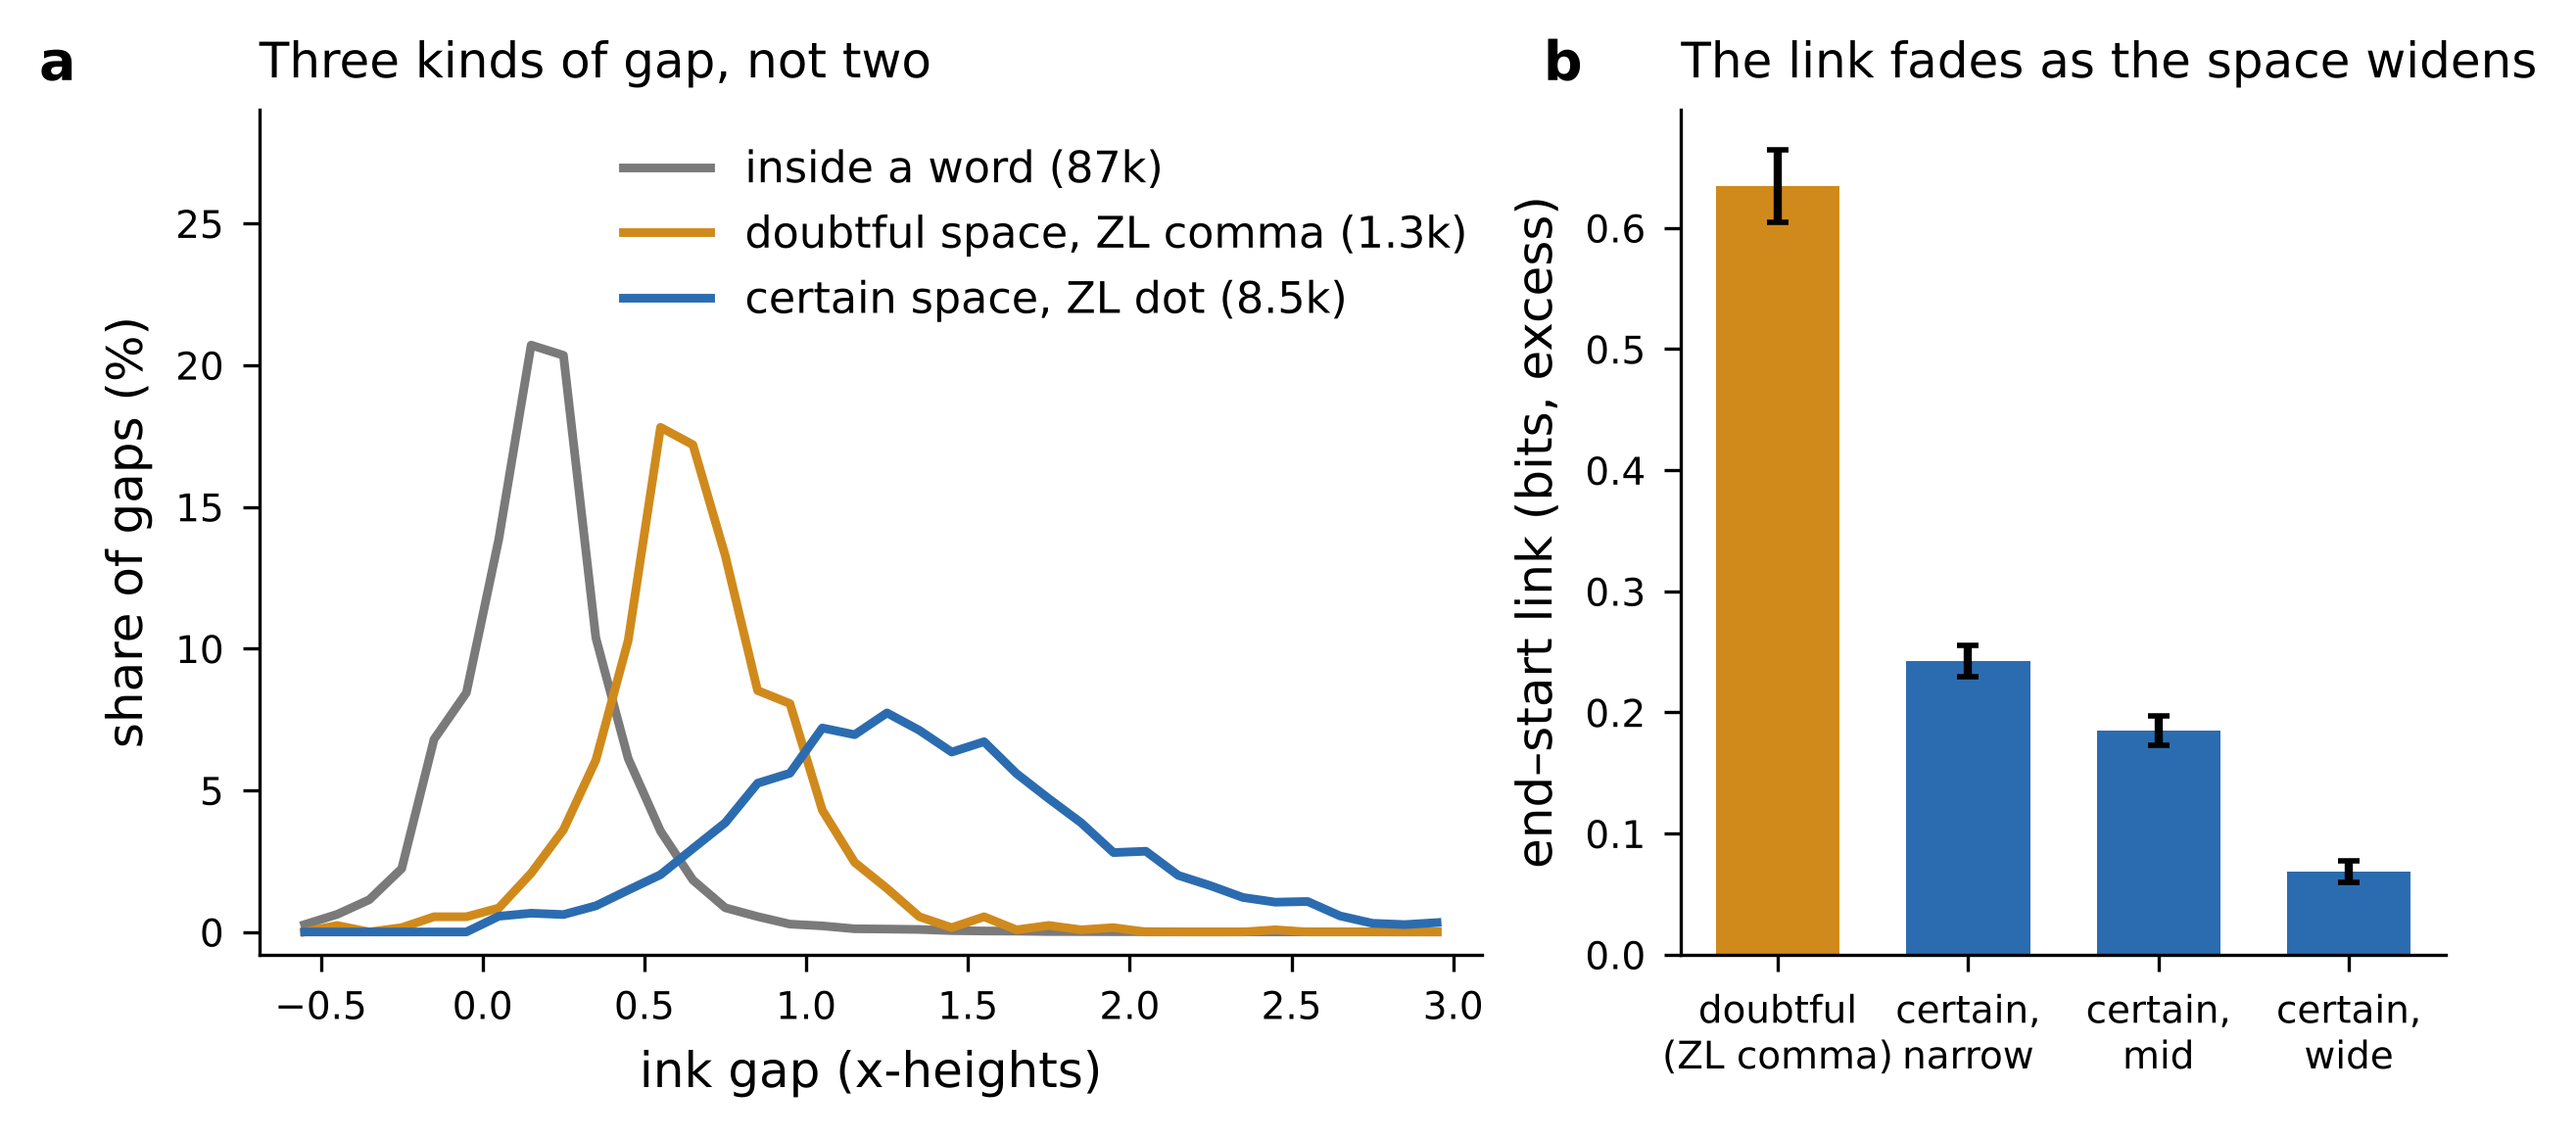
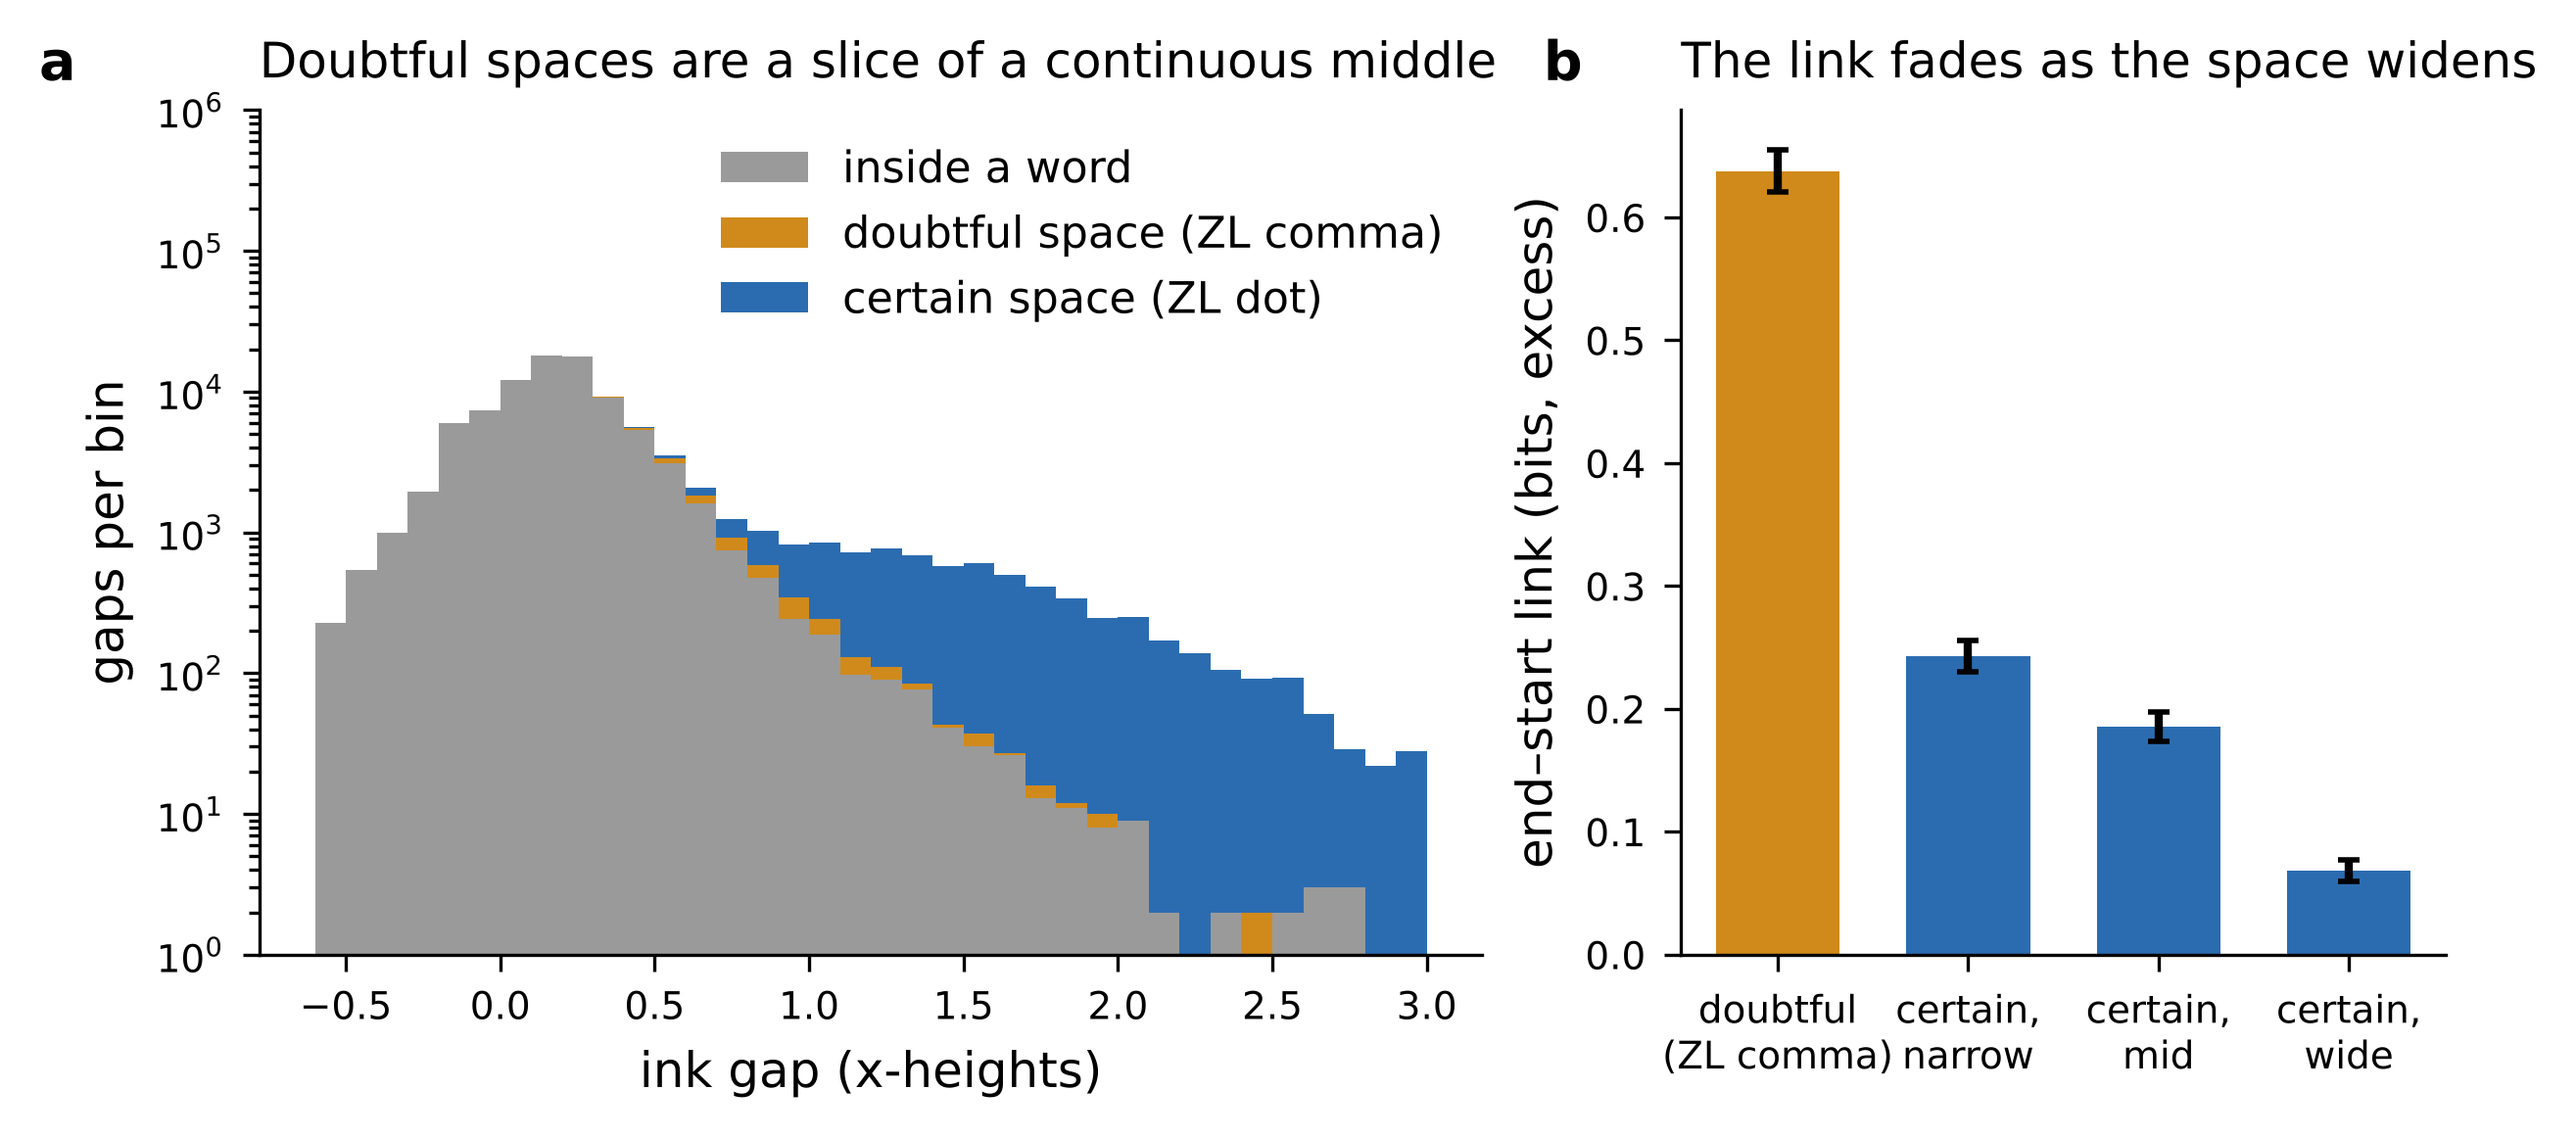
66: doubtful spaces aren't a third gap size

diff --git a/README.md b/README.md
@@ -113,7 +113,7 @@ dist, z, profile = benchmark.score(my_lines)   # score any text (list of lines o
 | 63 | a two-sign link | linking a word's start to the previous word's last two signs doesn't make the rhythm (1.61 vs B 1.96) and scores worse (5 of 11). The qo after -dy also depends on the family of the -dy word: the last piece of word-to-word structure no generator makes |
 | 64 | twin plants | the label next to a pharma plant that is redrawn from a herbal page (11 pairs from the literature, 41 labels) never occurs in the twin page, and isn't nearer to it than to a length-matched herbal page (percentile 0.50; similarity 0.44, p .07). A single mention, even one sign off, would have been found (p .002) |
 | 65 | the rhythm taken apart | the qo/ch-sh rhythm is a 20-cell table: next word's family by the previous word's family and ending (-y → qo-, -n/-l/-r → ch/sh-, o-). Drawing starts from it: rhythm 1.57 → 1.79 (B 1.93), link 0.10 → 0.15 bits (B 0.23), and the qo two words back mostly follows. Neighbouring lines of a page share their qo- and ending shares over 2-3 lines, and nothing I tried makes that without breaking something else |
-| 66 | spaces letter by letter | Ryan Allen's glyph map (ink of every letter): gaps fall in three populations, letters 0.17, ZL doubtful spaces 0.64, certain spaces 1.36 x-heights. The link between a word's end and the next word's start is 0.64 bits across doubtful spaces and falls from 0.24 to 0.07 across certain spaces as they widen (in A and in B). The qo- rhythm hardly changes with width: glyph coupling is about narrow spaces, the family habit is about words |
+| 66 | spaces letter by letter | Ryan Allen's glyph map (ink of every letter): letter gaps (median 0.17 x-heights) and spaces (1.36) overlap continuously; ZL doubtful spaces (0.64) are a slice of that middle, not a third size (corrected). The link between a word's end and the next word's start is 0.64 bits across doubtful spaces and falls from 0.24 to 0.07 across certain spaces as they widen (in A and in B). The qo- rhythm hardly changes with width: glyph coupling is about narrow spaces, the family habit is about words |
 
 Details and caveats in `RESEARCH_LOG.md`.
 

diff --git a/experiments/66_glyph_gaps/NOTES.md b/experiments/66_glyph_gaps/NOTES.md
@@ -27,6 +27,8 @@ at equal n (1,304 pairs, 20 subsamples).
 
 ![](results/glyph_gaps.png)
 
+Panel a: counts stacked by the transcription's label, log scale.
+
 | | n | median gap (x-heights) | 10th-90th percentile |
 |---|---|---|---|
 | letters inside a word | 87,363 | 0.17 | −0.13 to 0.45 |
@@ -45,10 +47,14 @@ of exp. 62 barely changes with width (after *ch/sh-…-y*: 1.78, 1.76, 1.66 time
 
 ## So what
 
-1. **There are three kinds of gap, not two.** The transcribers' doubtful spaces aren't a mix of
-   spaces and non-spaces. They form their own population, about four times a gap between letters and
-   half a space. Exp. 57 saw them as narrower spaces. With letters measured one by one they are a
-   separate size the scribe made.
+1. **Two populations, not three (corrected).** I first read the doubtful spaces as a third size of
+   gap. That was wrong. Daniil Vaino questioned it, and the unlabelled data agree with him. Between
+   0.5 and 0.9 x-heights there are 7,860 gaps: 5,929 inside words, 1,190 certain spaces and only
+   741 doubtful ones (9%). A mixture fitted to all gaps without labels doesn't find a middle peak
+   either: with three parts it splits the letter peak (means 0.16, 0.19, 0.93). So there are letter
+   gaps and spaces, overlapping continuously in the middle. The doubtful spaces are the part of
+   that middle the transcribers flagged, and their own peak at 0.64 comes from how they were picked,
+   not from a size the scribe chose.
 2. **The link between neighbouring words lives in the narrow spaces.** Across a doubtful space the
    end and the start are tied as tightly as letters inside a word. Across the widest third of the
    real spaces, almost nothing is left (0.07 bits, 0.03 in A). Boxes (exp. 55) and ink (exp. 57)

diff --git a/docs/where_it_stands.md b/docs/where_it_stands.md
@@ -53,7 +53,7 @@ experiment's NOTES.md.
   into false spaces, a rhythm, and repeated pairs without word order (exp. 53).
 - Channels not calibrated: line position, combinations of channels. Abbreviated text and numbers
   would have shown (exp. 59); only a code made statistically flat would not.
-- Measured letter by letter (exp. 66), the transcribers' doubtful spaces are a third size of gap between letters and spaces, the end-start link sits in narrow spaces (0.64 bits across doubtful ones, 0.07 across the widest real spaces), and the qo- rhythm crosses wide spaces unchanged.
+- Measured letter by letter (exp. 66), letter gaps and spaces overlap continuously and the transcribers' doubtful spaces are a slice of that middle, the end-start link sits in narrow spaces (0.64 bits across doubtful ones, 0.07 across the widest real spaces), and the qo- rhythm crosses wide spaces unchanged.
 - Zodiac labels carry no calendar that shows in word shape (exp. 58).
 - Labels behave like a separate vocabulary (exp. 45), and ring/circle text has hardly been looked
   at on its own.

diff --git a/RESEARCH_LOG.md b/RESEARCH_LOG.md
@@ -2,6 +2,13 @@
 
 Newest first. Numbers come from the `results/` folder of each experiment; rerun to check.
 
+## 2026-11-27
+
+### 66 correction: no third gap size
+Gaps 0.5-0.9 xh: inside words 5929, doubtful 741, certain 1190 (doubtful .094); 0.4-1.0: 11519 / 980 / 1789 (.069).
+Unlabelled Gaussian mixture on all gaps (-1..4): k=2 BIC 56150, means .16 .85; k=3 BIC 53450, means .16 .19 .93 (splits the letter peak, no middle mode).
+Figure panel a redrawn as counts stacked by label (log). Raised by Daniil Vaino.
+
 ## 2026-11-25
 
 ### 66 glyph gaps (glyph map 22 Nov 2026; band ±0.6 xh; MI excess at n=1304, 20 subsamples)
